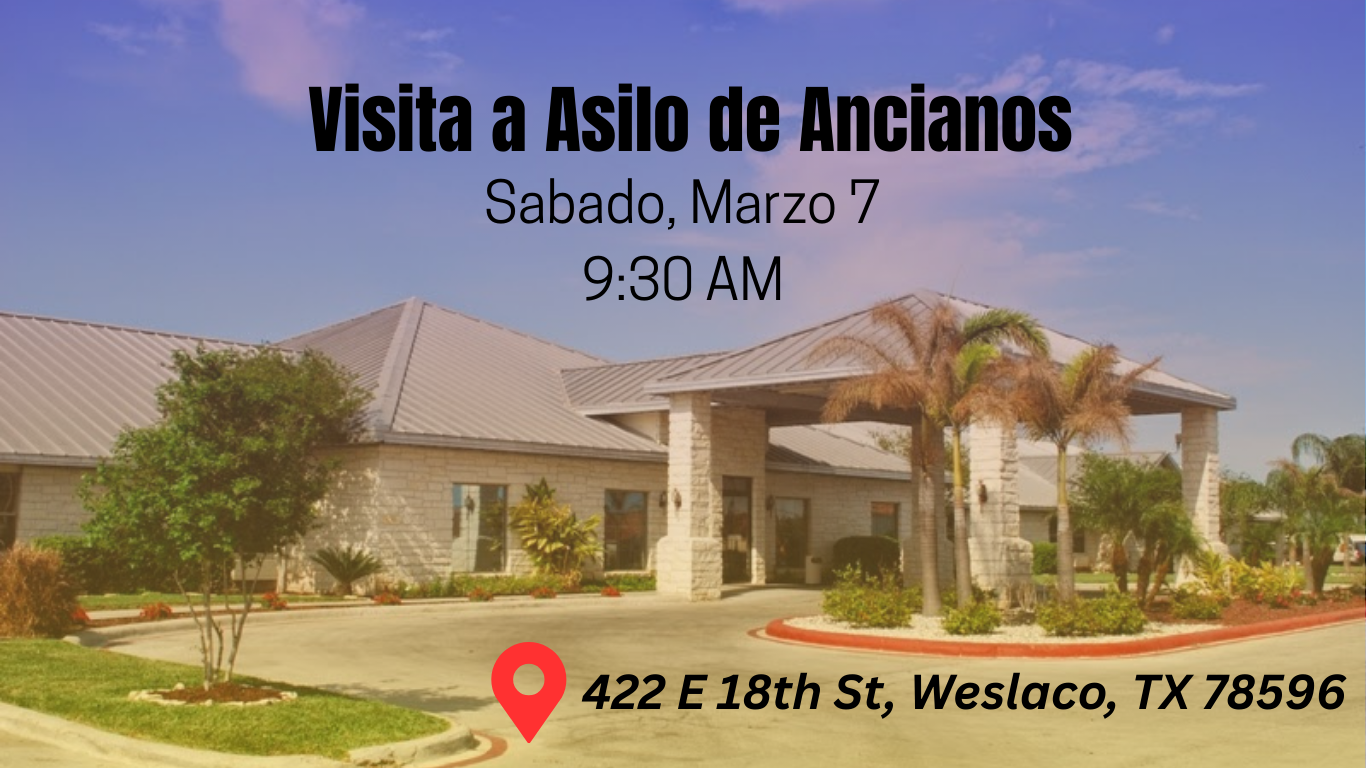
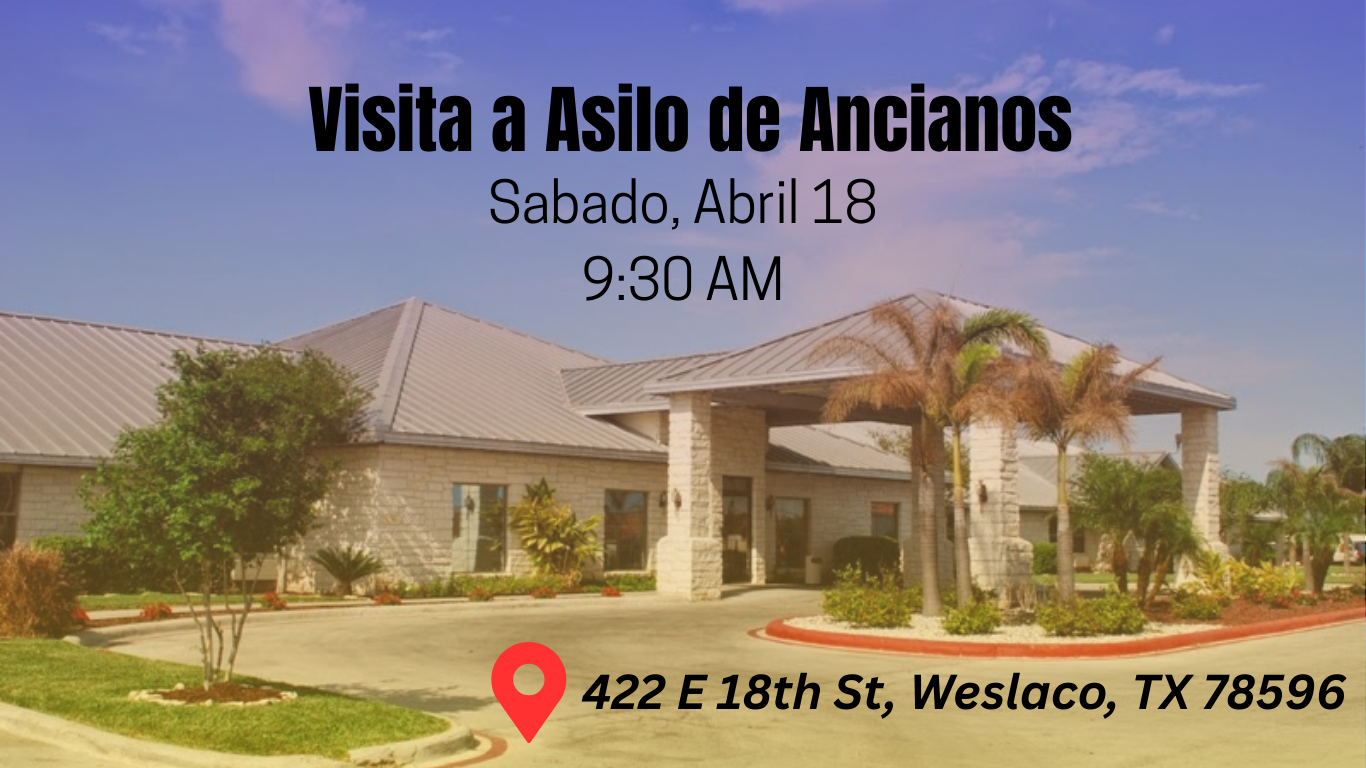
Testing flyers

Changed region(s): [[0.3382, 0.2188, 0.6457, 0.3125]]

diff --git a/app/[locale]/homePage/ui/eventFlyers.tsx b/app/[locale]/homePage/ui/eventFlyers.tsx
@@ -182,7 +182,7 @@ function ChurchFellowship(locale: string){
 }
 
 function NursingHome(locale: string) {
-    const imagePath = `/flyers/en.png`
+    const imagePath = locale === "en" ? "/flyers/nursing_home_visit/en.png" : "/flyers/nursing_home_visit/es.png"
 
     return <>
         <Image src ={imagePath}
@@ -211,18 +211,18 @@ export default function EventFlyerSection(){
 
     const arrayFlyers = [MissionFlyer(fullSize, sliderLocale), DiscpleFlyer(fullSize, sliderLocale), 
         PrayerWorshipNight(fullSize, sliderLocale), SundayService(fullSize, sliderLocale), 
-        PrayerService(fullSize, sliderLocale), MenFellowship(sliderLocale), NursingHome(sliderLocale), ZooFlyer(sliderLocale) ];
+        PrayerService(fullSize, sliderLocale), ZooFlyer(sliderLocale), NursingHome(sliderLocale) ];
 
     const [index, setIndex] = useState(0);
     const [isAnimating, setIsAnimating] = useState(true);
-    const target = new Date().setHours(10,30,0,0);
+    const target = new Date().setHours(14,15,0,0);
     const [remaining, setRemaining] = useState(target - Date.now());
     const [fiveTimer, setFiveTimer] = useState(false);
     const [cooldown, setCooldown] = useState(false);
     const [isRunning, setIsRunning] = useState(true);
     const [fade, setFade] = useState(false);
     const temp_date = new Date();
-    const isSunday = new Date(temp_date.toLocaleDateString("en-US", {timeZone: "America/Chicago"})).getDay() === 0;
+    const isSunday = new Date(temp_date.toLocaleDateString("en-US", {timeZone: "America/Chicago"})).getDay() === 4;
     const sectionRef = useRef<HTMLDivElement>(null); 
     const timerInterval = useRef<ReturnType<typeof setInterval> | null>(null);
     const fiveInterval = useRef<ReturnType<typeof setInterval> | null>(null);

diff --git a/app/[locale]/page.tsx b/app/[locale]/page.tsx
@@ -23,8 +23,6 @@ type Event = {
 
 // console.log("The current before temp ", current_date)
 const current_date = toZonedTime(new Date(), "America/Chicago");
-console.log(current_date);
-console.log(current_date.getHours())
 const staticEvents = new Map<number, ConstantEventType>();
 
 for (const constant of constantEvents){ //array that holds sunday, monday and wednesday services
@@ -84,6 +82,9 @@ export default async function Start_Page(){
         <div className="flex w-full justify-center">
           <div className="text-4xl italic mt-5">
             Under Maintenance
+          </div>
+          <div>
+            {current_date.getHours()}
           </div>
         </div>
         {/* <div className="grid grid-cols-3 mt-20 divide-x-3 divide-solid divide-black/80">
